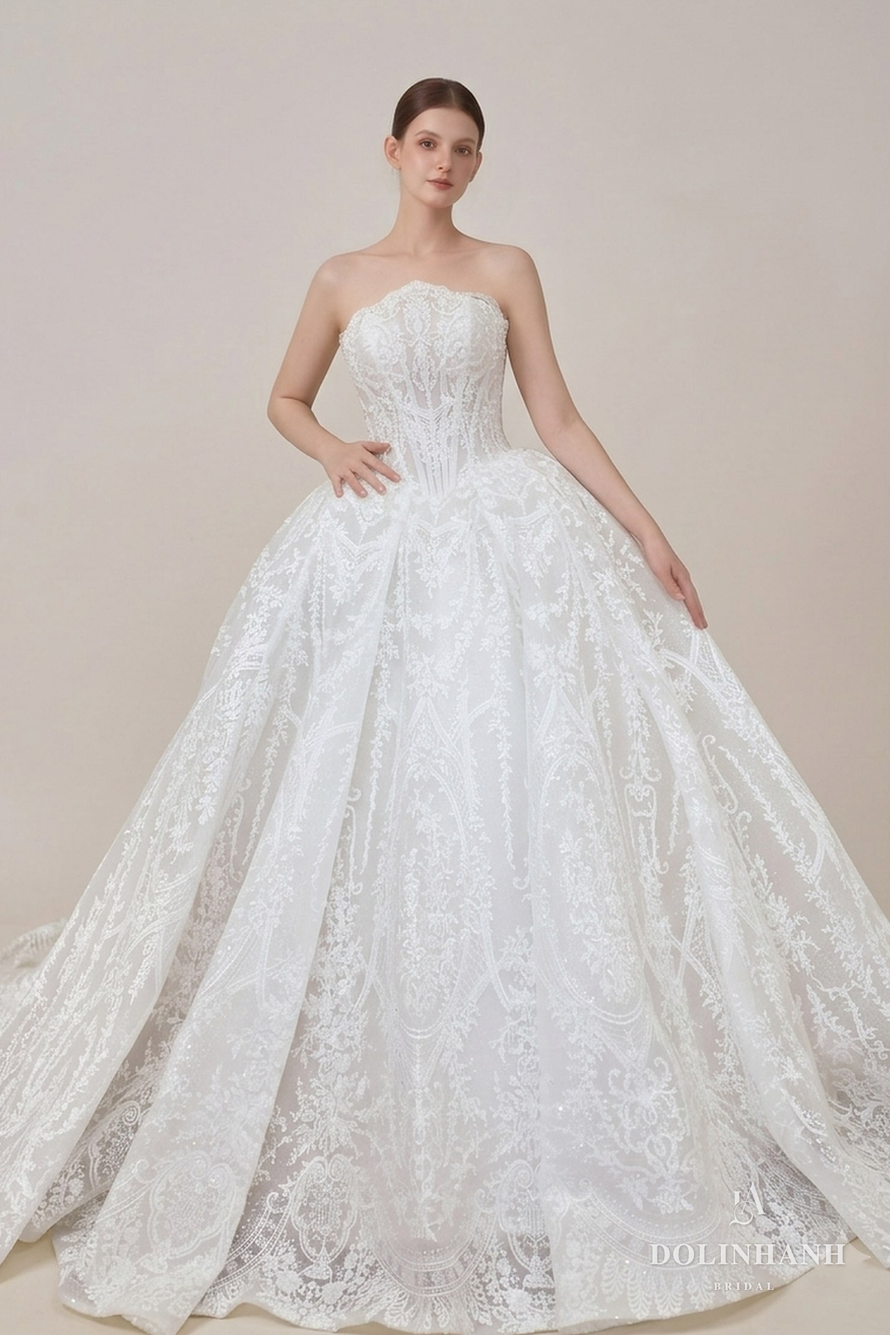
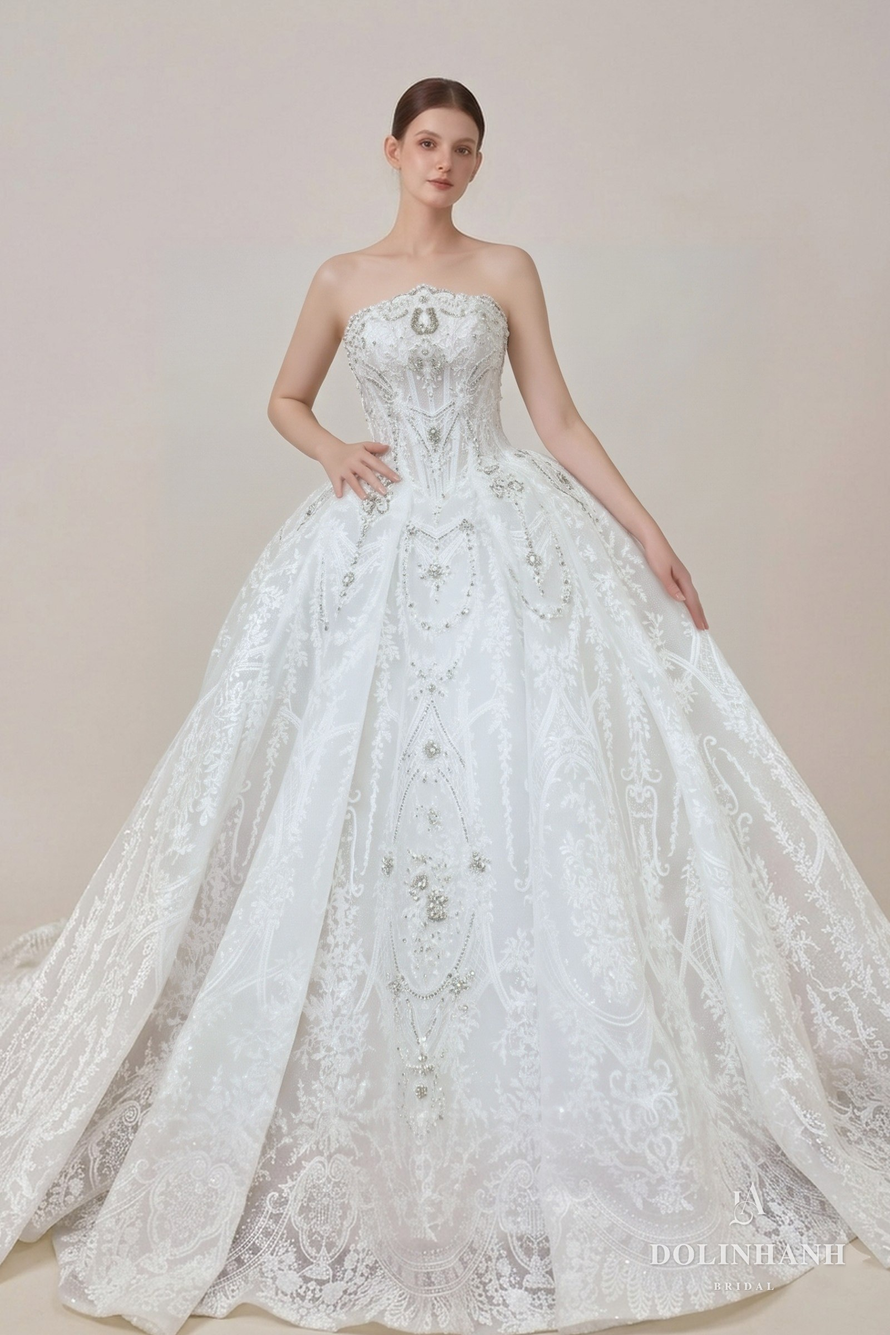
V175: sua anh MS 532: them mo tip da theo clip

diff --git a/bo-suu-tap.html b/bo-suu-tap.html
@@ -3738,7 +3738,7 @@ src="https://www.facebook.com/tr?id=1358640082651240&ev=PageView&noscript=1"
         </figure>
         <figure data-dang="ballgown" data-mood="timeless" data-coso="hcm">
           <div class="sl-khung">
-            <div class="sl" data-img="anh/vay/ms532/01.jpg?v=1"></div>
+            <div class="sl" data-img="anh/vay/ms532/01.jpg?v=0511"></div>
           </div>
           <figcaption><span class="kind" data-en="Dolinhanh Bridal" data-zh="Dolinhanh Bridal">Dolinhanh Bridal</span><span class="nm">MS 532</span><span class="de" data-en="Lace strapless beaded ballgown" data-zh="蕾丝抹胸钉珠大蓬裙">Cúp ngực ren, bồng xoè đính đá</span><span class="gia" data-en="Price on request" data-zh="价格请咨询">Giá: liên hệ</span></figcaption>
         </figure>
